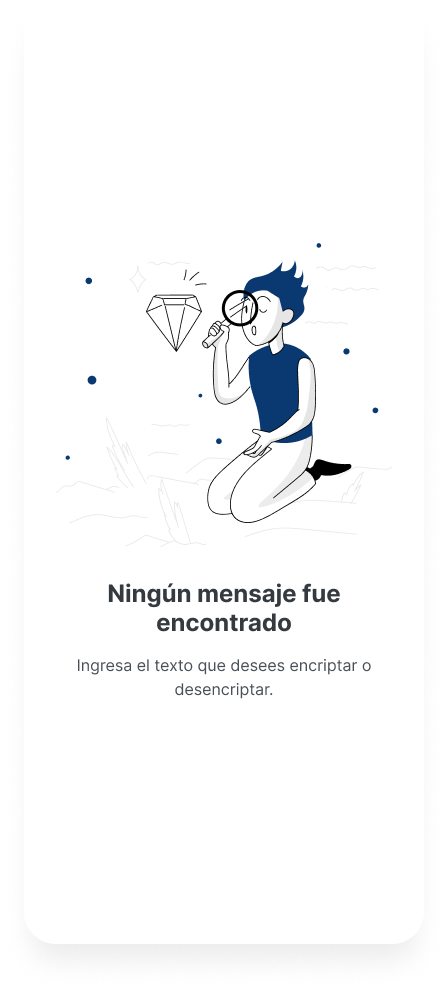
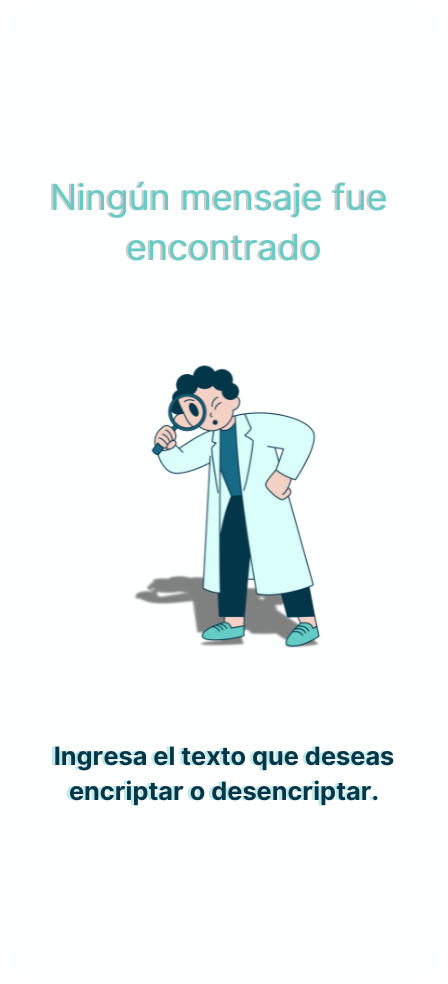
personalizacion paleta imagenes 90/100

diff --git a/style.css b/style.css
@@ -1,16 +1,16 @@
 @import url('https://fonts.googleapis.com/css2?family=Inter:ital,opsz,wght@0,14..32,100..900;1,14..32,100..900&display=swap');
 
 :root{
-    --color-primario: #E5E5E5;
-    --color-secundario: #0A3871;
+    --color-primario: #DAFFFB;
+    --color-secundario: #04364A;
     --color-terciario: #ffffff;
-    --color-disabled-boton: #838b93; 
+    --color-disabled-boton: #64CCC5; 
 
     --fuente-general:"Inter", sans-serif;
     --fuente-general-weight: 400 ;
-    --fuente-color1:#0A3871;
+    --fuente-color1:#04364A;
     --fuente-color2:#FFFFFF;
-    --fuente-color3:#495057;
+    --fuente-color3:#176B87;
 }
 
 *{

diff --git a/scrip.js b/scrip.js
@@ -19,8 +19,6 @@ textArea1.addEventListener("input", function(){
     restringirCaracteres(textArea1);
 });
 
-botonEn.addEventListener("click", cambiarFondo);
-
 //--------------------------------------------------
 function encriptar(stringEncriptada){
     let matrizCodigo1 = [["e" , "enter"] , ["i" , "imes"] , ["a" , "ai"] , ["o" , "ober"] , ["u" , "ufat"]];
